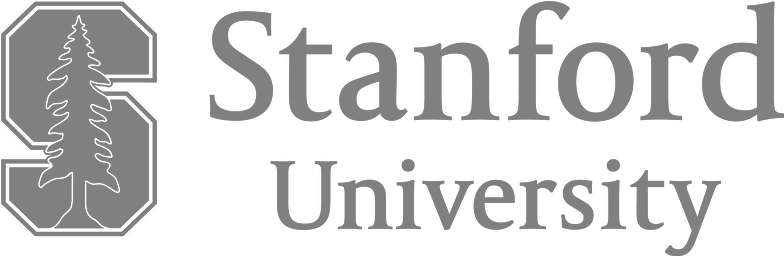
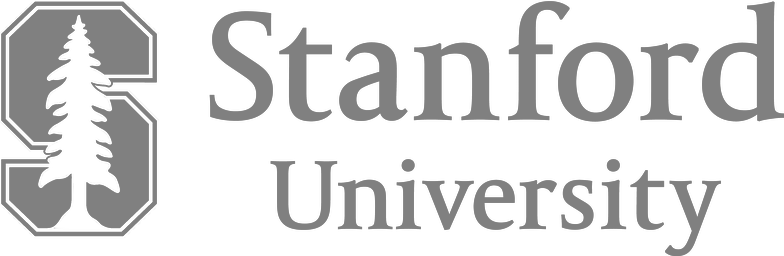
API/MCP page slimmed to connect + ask; header CTA gets the key; Stanford tree
- api-key.html is two sections now: the agent-chips connect terminal and the
  ask-an-AI cards. The hero block and the preview console leave; the connect
  heading becomes the page h1 (with the specificity fix so it keeps its
  display size), and the sections sit on the standard section rhythm.
- The home page header CTA reads "Get your API key" and links to the
  API / MCP page, in both header states; as a nav anchor it keeps the
  control look. The hero and closing "Book a call" stay.
- The Stanford tree reads white in both modes: the tree is an enclosed
  transparent hole in the source, so the dark mark now fills it with real
  white; both strip images regenerated from the updated source.

Changed region(s): [[0.0306, 0.0938, 0.1531, 0.9062]]

diff --git a/api-key.html b/api-key.html
@@ -47,19 +47,12 @@
     <button type="button" class="nav-toggle" aria-expanded="false" aria-label="Menu" data-i18n-attr="aria-label:ariaMenu"><svg width="20" height="20" viewBox="0 0 24 24" fill="none" stroke="currentColor" stroke-width="2" stroke-linecap="round" stroke-linejoin="round"><path d="M4 6h16"/><path d="M4 12h16"/><path d="M4 18h16"/></svg></button>
   </header>
   <main class="page-main">
-    <h1>Run 1,000+ deterministic engines from one endpoint</h1>
-    <p class="api-lede">The API and the MCP server are two doors to the same place. Your code calls a REST endpoint, your AI calls a tool, and both run the same engine and get the same exact answer back. Same key for both.</p>
-    <div class="api-hero-meta">
-      <p class="api-note">The API opens soon. The console below is a preview until then.</p>
-      <div class="api-base"><span class="api-base-label">Base URL</span><code>https://api.anteon.dev</code></div>
-    </div>
-
     <!-- A. Connect: a motion-style showcase. The chips switch the terminal,
          which types out that agent's setup line by line. Every line is depicted
          and pre-launch: the real MCP URL and a Bearer key, framed as how it
          works. The window is a component surface, like the landing terminal. -->
     <section class="api-connect" aria-labelledby="api-connect-h">
-      <h2 id="api-connect-h" class="api-display-h">Plug Anteon into your existing agents</h2>
+      <h1 id="api-connect-h" class="api-display-h">Plug Anteon into your existing agents</h1>
       <p class="api-display-sub">Call Anteon from Claude, ChatGPT, Cursor, or any agent over MCP. It finds the right engine and returns the exact answer.</p>
 
       <div class="api-chips" role="group" aria-label="Choose an agent">
@@ -115,71 +108,7 @@
       <p class="api-status" id="api-connect-status" role="status" aria-live="polite" hidden></p>
     </section>
 
-    <!-- 3-5. The console: account, key, billing. Staged, pre-launch, honest. -->
-    <section class="api-section" aria-labelledby="api-console-h">
-      <div class="api-section-head">
-        <h2 id="api-console-h">Your console</h2>
-        <span class="api-soon">Preview</span>
-      </div>
-      <p class="api-section-lede">Here&rsquo;s where you&rsquo;ll manage your account, your key, and your balance. It&rsquo;s a preview until the API opens, so nothing here is stored yet.</p>
-      <div class="api-console">
-
-        <!-- Account -->
-        <article class="api-panel">
-          <div class="api-panel-head">
-            <h3>Create your account</h3>
-            <span class="api-soon">Launching soon</span>
-          </div>
-          <p class="api-panel-desc">One account holds your keys, your balance, and your usage. Sign-ups open the day the API does.</p>
-          <form class="api-account-form" novalidate>
-            <div class="api-field">
-              <label for="api-email">Work email</label>
-              <input id="api-email" name="email" type="email" autocomplete="email" placeholder="you@company.com" />
-            </div>
-            <button type="submit" class="api-btn">
-              <span class="api-btn-label">Create account</span>
-              <span class="api-btn-arrow" aria-hidden="true"><svg viewBox="0 0 24 24" fill="none" stroke="currentColor" stroke-width="2" stroke-linecap="round" stroke-linejoin="round"><path d="M7 7h10v10"/><path d="M7 17 17 7"/></svg></span>
-            </button>
-          </form>
-          <p class="api-status" id="api-account-status" role="status" aria-live="polite" hidden></p>
-        </article>
-
-        <!-- Your API key -->
-        <article class="api-panel">
-          <div class="api-panel-head"><h3>Your API key</h3></div>
-          <p class="api-panel-desc">Your key authenticates every call, plain API or MCP. You&rsquo;ll see it once, when you create it.</p>
-          <div class="api-key-row">
-            <code class="api-key">ak_live_a1b2c3d4&bull;&bull;&bull;&bull;&bull;&bull;&bull;&bull;&bull;&bull;&bull;&bull;&bull;&bull;&bull;&bull;&bull;&bull;&bull;&bull;</code>
-            <button class="api-copy is-preview" type="button" data-note-target="#api-key-status" data-note="This is a sample. Your real key appears here at launch, shown once." aria-label="Copy your API key">
-              <svg class="api-copy-icon" viewBox="0 0 24 24" fill="none" stroke="currentColor" stroke-width="2" stroke-linecap="round" stroke-linejoin="round" aria-hidden="true"><rect width="14" height="14" x="8" y="8" rx="2" ry="2"/><path d="M4 16c-1.1 0-2-.9-2-2V4c0-1.1.9-2 2-2h10c1.1 0 2 .9 2 2"/></svg>
-              <span class="api-copy-label">Copy</span>
-            </button>
-          </div>
-          <p class="api-key-hint">This is a sample. Your real key appears here at launch, shown once. Keep it secret, like a password.</p>
-          <p class="api-status" id="api-key-status" role="status" aria-live="polite" hidden></p>
-        </article>
-
-        <!-- Billing -->
-        <article class="api-panel">
-          <div class="api-panel-head">
-            <h3>Billing</h3>
-            <span class="api-soon">Launching soon</span>
-          </div>
-          <p class="api-panel-desc">Anteon meters by the run. You load a balance, and each call draws a small amount from it, less for a quick lookup, more for a heavy conversion. The plain API and the MCP server bill the same way.</p>
-          <div class="api-balance">
-            <span class="api-balance-label">Balance</span>
-            <span class="api-balance-amount">$0.00</span>
-          </div>
-          <button class="api-btn" type="button" data-note-target="#api-billing-status" data-note="Checkout opens at launch and runs on Stripe. No card details are collected on this page.">
-            <span class="api-btn-label">Add funds</span>
-            <span class="api-btn-arrow" aria-hidden="true"><svg viewBox="0 0 24 24" fill="none" stroke="currentColor" stroke-width="2" stroke-linecap="round" stroke-linejoin="round"><path d="M7 7h10v10"/><path d="M7 17 17 7"/></svg></span>
-          </button>
-          <p class="api-billing-foot">Full rates land on the <a href="./pricing.html">pricing page</a> before the API opens.</p>
-          <p class="api-status" id="api-billing-status" role="status" aria-live="polite" hidden></p>
-        </article>
-
-      </div>
-    </section>
+    
 
     <!-- B. Ask an AI: three outbound links that open a chat assistant with the
          question already typed in. No backend and no tracking, just links. -->
@@ -287,6 +216,221 @@
             if (email) email.setAttribute('aria-invalid', 'false');
             showNote('#api-account-status', "The API isn't open yet, so no account is created and nothing is stored. Sign-ups turn on here the day it launches.");
           });
+        }
+
+        // ===== Connect terminal: chips switch the agent, and each agent's
+        // setup types out line by line behind a blinking caret. A run token
+        // guards a half-typed script when the visitor clicks the chips quickly.
+        var termLines = document.getElementById('api-term-lines');
+        var termTitle = document.querySelector('[data-term-title]');
+        var chips = document.querySelectorAll('.api-chip');
+        if (termLines && chips.length) {
+          var reduce = window.matchMedia('(prefers-reduced-motion: reduce)').matches;
+          var CHAR_MS = 6;
+          var LINE_MS = 55;
+          var runToken = 0;
+          var current = 'claude';
+
+          // Each agent: the window title, the single-line payload the copy
+          // control hands over, and the lines the typer prints. The displayed
+          // curl and config wrap for reading; the copy payload stays one line
+          // so it pastes clean.
+          var SCRIPTS = {
+            claude: {
+              title: 'anteon · claude',
+              copy: 'https://api.anteon.dev/mcp',
+              lines: [
+                { cls: 'api-tl-comment', g: '#', t: 'Add Anteon to Claude' },
+                { cls: 'api-tl-step', g: '1', t: 'Open claude.ai, then Settings, then Connectors' },
+                { cls: 'api-tl-step', g: '2', t: 'Choose "Add custom connector"' },
+                { cls: 'api-tl-step', g: '3', t: 'Name it Anteon and paste the server URL' },
+                { cls: 'api-tl-code', g: '', t: 'https://api.anteon.dev/mcp' },
+                { cls: 'api-tl-step', g: '4', t: 'Add your key when asked' },
+                { cls: 'api-tl-code', g: '', t: 'ak_live_...' },
+                { cls: 'api-tl-done', g: '✓', t: 'Connected. Claude can run every Anteon engine.' }
+              ]
+            },
+            cursor: {
+              title: 'anteon · cursor',
+              copy: '{ "mcpServers": { "anteon": { "url": "https://api.anteon.dev/mcp", "headers": { "Authorization": "Bearer ak_live_..." } } } }',
+              lines: [
+                { cls: 'api-tl-comment', g: '#', t: 'Add Anteon to Cursor' },
+                { cls: 'api-tl-step', g: '1', t: 'Open Cursor, then Settings, then MCP' },
+                { cls: 'api-tl-step', g: '2', t: 'Choose "Add server" and paste this' },
+                { cls: 'api-tl-code', g: '', t: '{' },
+                { cls: 'api-tl-code', g: '', t: '  "mcpServers": {' },
+                { cls: 'api-tl-code', g: '', t: '    "anteon": {' },
+                { cls: 'api-tl-code', g: '', t: '      "url": "https://api.anteon.dev/mcp",' },
+                { cls: 'api-tl-code', g: '', t: '      "headers": { "Authorization": "Bearer ak_live_..." }' },
+                { cls: 'api-tl-code', g: '', t: '    }' },
+                { cls: 'api-tl-code', g: '', t: '  }' },
+                { cls: 'api-tl-code', g: '', t: '}' },
+                { cls: 'api-tl-done', g: '✓', t: 'Save. Cursor lists Anteon tools right away.' }
+              ]
+            },
+            chatgpt: {
+              title: 'anteon · chatgpt',
+              copy: 'https://api.anteon.dev/mcp',
+              lines: [
+                { cls: 'api-tl-comment', g: '#', t: 'Add Anteon to ChatGPT' },
+                { cls: 'api-tl-step', g: '1', t: 'Open ChatGPT, then Settings, then Connectors' },
+                { cls: 'api-tl-step', g: '2', t: 'Add a custom connector' },
+                { cls: 'api-tl-step', g: '3', t: 'Paste the Anteon server URL' },
+                { cls: 'api-tl-code', g: '', t: 'https://api.anteon.dev/mcp' },
+                { cls: 'api-tl-step', g: '4', t: 'Add your key when asked' },
+                { cls: 'api-tl-code', g: '', t: 'ak_live_...' },
+                { cls: 'api-tl-done', g: '✓', t: 'Connected. ChatGPT reaches every Anteon engine.' }
+              ]
+            },
+            perplexity: {
+              title: 'anteon · perplexity',
+              copy: 'https://api.anteon.dev/mcp',
+              lines: [
+                { cls: 'api-tl-comment', g: '#', t: 'Add Anteon to Perplexity' },
+                { cls: 'api-tl-step', g: '1', t: 'Open Perplexity, then Settings, then Connectors' },
+                { cls: 'api-tl-step', g: '2', t: 'Add a custom MCP connector' },
+                { cls: 'api-tl-step', g: '3', t: 'Paste the Anteon server URL' },
+                { cls: 'api-tl-code', g: '', t: 'https://api.anteon.dev/mcp' },
+                { cls: 'api-tl-step', g: '4', t: 'Add your key when asked' },
+                { cls: 'api-tl-code', g: '', t: 'ak_live_...' },
+                { cls: 'api-tl-done', g: '✓', t: 'Connected. Perplexity runs Anteon on demand.' }
+              ]
+            },
+            any: {
+              title: 'anteon · any client',
+              copy: 'https://api.anteon.dev/mcp',
+              lines: [
+                { cls: 'api-tl-comment', g: '#', t: 'Any MCP client' },
+                { cls: 'api-tl-note', g: '', t: 'Point your client at the Anteon MCP server.' },
+                { cls: 'api-tl-code', g: '', t: 'url      https://api.anteon.dev/mcp' },
+                { cls: 'api-tl-code', g: '', t: 'header   Authorization: Bearer ak_live_...' },
+                { cls: 'api-tl-note', g: '', t: 'It exposes three tools, search, run, and describe.' },
+                { cls: 'api-tl-done', g: '✓', t: 'Any MCP-capable agent can now call Anteon.' }
+              ]
+            },
+            api: {
+              title: 'anteon · api',
+              copy: "curl -X POST https://api.anteon.dev/v1/run/date.business_days -H \"Authorization: Bearer ak_live_...\" -d '{\"start\":\"2026-03-03\",\"n\":90}'",
+              lines: [
+                { cls: 'api-tl-comment', g: '#', t: 'Call an engine directly over HTTP' },
+                { cls: 'api-tl-code', g: '$', t: 'curl -X POST https://api.anteon.dev/v1/run/date.business_days \\' },
+                { cls: 'api-tl-code', g: '', t: '  -H "Authorization: Bearer ak_live_..." \\' },
+                { cls: 'api-tl-code', g: '', t: "  -d '{\"start\":\"2026-03-03\",\"n\":90}'" },
+                { cls: 'api-tl-note', g: '', t: 'Response' },
+                { cls: 'api-tl-code', g: '', t: '{ "result": "2026-07-08", "engine": "date.business_days" }' },
+                { cls: 'api-tl-done', g: '✓', t: 'One call, one exact answer.' }
+              ]
+            }
+          };
+
+          function makeTermLine(line) {
+            var el = document.createElement('div');
+            el.className = 'api-term-line ' + line.cls;
+            var g = document.createElement('span');
+            g.className = 'api-term-glyph';
+            g.textContent = line.g || '';
+            el.appendChild(g);
+            var t = document.createElement('span');
+            t.className = 'api-term-text';
+            el.appendChild(t);
+            return { el: el, textEl: t };
+          }
+
+          function renderInstant(key) {
+            var script = SCRIPTS[key];
+            termLines.replaceChildren();
+            for (var i = 0; i < script.lines.length; i += 1) {
+              var made = makeTermLine(script.lines[i]);
+              made.textEl.textContent = script.lines[i].t;
+              termLines.appendChild(made.el);
+            }
+          }
+
+          function play(key) {
+            var script = SCRIPTS[key];
+            if (!script) return;
+            current = key;
+            if (termTitle) termTitle.textContent = script.title;
+            runToken += 1;
+            var token = runToken;
+            termLines.replaceChildren();
+            if (reduce) { renderInstant(key); return; }
+            var cursor = document.createElement('span');
+            cursor.className = 'api-term-cursor';
+            var li = 0;
+            function nextLine() {
+              if (token !== runToken) return;
+              if (li >= script.lines.length) return;
+              var line = script.lines[li];
+              var made = makeTermLine(line);
+              termLines.appendChild(made.el);
+              made.el.appendChild(cursor);
+              var text = line.t;
+              var ci = 0;
+              (function typeChar() {
+                if (token !== runToken) return;
+                if (ci <= text.length) {
+                  made.textEl.textContent = text.slice(0, ci);
+                  ci += 1;
+                  termLines.scrollTop = termLines.scrollHeight;
+                  window.setTimeout(typeChar, CHAR_MS);
+                } else {
+                  li += 1;
+                  window.setTimeout(nextLine, LINE_MS);
+                }
+              })();
+            }
+            nextLine();
+          }
+
+          for (const chip of chips) {
+            chip.addEventListener('click', function () {
+              var key = chip.getAttribute('data-agent');
+              if (!key) return;
+              for (const c of chips) {
+                var on = c === chip;
+                c.classList.toggle('is-active', on);
+                c.setAttribute('aria-pressed', on ? 'true' : 'false');
+              }
+              play(key);
+            });
+          }
+
+          // The terminal copy control hands over the active agent's payload (the
+          // MCP URL, the Cursor config, or the curl), not the on-screen decoration.
+          var termCopy = document.getElementById('api-term-copy');
+          if (termCopy) {
+            termCopy.addEventListener('click', function () {
+              var label = termCopy.querySelector('.api-copy-label');
+              copyText(SCRIPTS[current].copy).then(function () {
+                termCopy.classList.add('is-copied');
+                if (label) label.textContent = 'Copied';
+                window.clearTimeout(termCopy._reset);
+                termCopy._reset = window.setTimeout(function () {
+                  termCopy.classList.remove('is-copied');
+                  if (label) label.textContent = 'Copy';
+                }, 1600);
+              }, function () {});
+            });
+          }
+
+          // Type the default agent once the terminal scrolls into view, so the
+          // reveal reads as a live session rather than a page already filled in.
+          if (reduce) {
+            renderInstant(current);
+          } else if ('IntersectionObserver' in window) {
+            var seen = false;
+            var io = new IntersectionObserver(function (entries) {
+              if (entries[0] && entries[0].isIntersecting && !seen) {
+                seen = true;
+                play(current);
+                io.disconnect();
+              }
+            }, { threshold: 0.35 });
+            io.observe(termLines);
+          } else {
+            play(current);
+          }
         }
 
         // ===== Connect terminal: chips switch the agent, and each agent's

diff --git a/index.html b/index.html
@@ -58,7 +58,7 @@
       <a href="./api-key.html" data-i18n="apiKey">API / MCP</a>
       <a href="./pricing.html" data-i18n="pricing">Pricing</a>
       <a href="./support.html" data-i18n="support">Support</a>
-      <button type="button" class="book-call"><span class="bc-label" data-i18n="bookCall">Book a call</span><span class="bc-arrow" aria-hidden="true"><svg width="15" height="15" viewBox="0 0 24 24" fill="none" stroke="currentColor" stroke-width="2" stroke-linecap="round" stroke-linejoin="round"><path d="M7 7h10v10"/><path d="M7 17 17 7"/></svg></span></button>
+      <a class="book-call" href="./api-key.html"><span class="bc-label" data-i18n="getApiKey">Get your API key</span><span class="bc-arrow" aria-hidden="true"><svg width="15" height="15" viewBox="0 0 24 24" fill="none" stroke="currentColor" stroke-width="2" stroke-linecap="round" stroke-linejoin="round"><path d="M7 7h10v10"/><path d="M7 17 17 7"/></svg></span></a>
     </nav>
     <button type="button" class="nav-toggle" aria-expanded="false" aria-label="Menu" data-i18n-attr="aria-label:ariaMenu"><svg width="20" height="20" viewBox="0 0 24 24" fill="none" stroke="currentColor" stroke-width="2" stroke-linecap="round" stroke-linejoin="round"><path d="M4 6h16"/><path d="M4 12h16"/><path d="M4 18h16"/></svg></button>
   </header>
@@ -96,7 +96,7 @@
         <a href="./api-key.html" data-i18n="apiKey">API / MCP</a>
         <a href="./pricing.html" data-i18n="pricing">Pricing</a>
         <a href="./support.html" data-i18n="support">Support</a>
-        <button type="button" class="book-call"><span class="bc-label" data-i18n="bookCall">Book a call</span><span class="bc-arrow" aria-hidden="true"><svg width="15" height="15" viewBox="0 0 24 24" fill="none" stroke="currentColor" stroke-width="2" stroke-linecap="round" stroke-linejoin="round"><path d="M7 7h10v10"/><path d="M7 17 17 7"/></svg></span></button>
+        <a class="book-call" href="./api-key.html"><span class="bc-label" data-i18n="getApiKey">Get your API key</span><span class="bc-arrow" aria-hidden="true"><svg width="15" height="15" viewBox="0 0 24 24" fill="none" stroke="currentColor" stroke-width="2" stroke-linecap="round" stroke-linejoin="round"><path d="M7 7h10v10"/><path d="M7 17 17 7"/></svg></span></a>
       </nav>
       <button type="button" class="nav-toggle" aria-expanded="false" aria-label="Menu" data-i18n-attr="aria-label:ariaMenu"><svg width="20" height="20" viewBox="0 0 24 24" fill="none" stroke="currentColor" stroke-width="2" stroke-linecap="round" stroke-linejoin="round"><path d="M4 6h16"/><path d="M4 12h16"/><path d="M4 18h16"/></svg></button>
     </div>

diff --git a/src/i18n/catalogs.ts b/src/i18n/catalogs.ts
@@ -29,6 +29,7 @@ export interface Catalog {
   pricing: string;
   support: string;
   bookCall: string;
+  getApiKey: string;
   /* The film's skip control. */
   skipFilm: string;
   introTitle: string;
@@ -262,6 +263,7 @@ const CHROME: Record<Locale, ChromeStrings> = {
     pricing: 'Pricing',
     support: 'Support',
     bookCall: 'Book a call',
+    getApiKey: 'Get your API key',
     skipFilm: 'Skip the film',
     introTitle: 'Anteon',
     introSub: 'The determinism layer your AI stands on',
@@ -450,6 +452,7 @@ const CHROME: Record<Locale, ChromeStrings> = {
     pricing: 'Precios',
     support: 'Soporte',
     bookCall: 'Reserva una llamada',
+    getApiKey: 'Obtén tu clave de API',
     skipFilm: 'Salta la película',
     introTitle: 'Anteon',
     introSub: 'La capa de determinismo sobre la que se apoya tu IA',

diff --git a/src/styles.css b/src/styles.css
@@ -114,6 +114,12 @@ body {
   transition: opacity var(--speed-quick) var(--ease);
 }
 
+/* The header CTA is a link now (it goes to the API / MCP page). As an anchor
+ * inside the nav it keeps the control look: no muting, no drawn underline. */
+a.book-call { text-decoration: none; }
+.header-nav a.book-call { opacity: 1; }
+.header-nav a.book-call::after { content: none; }
+
 .book-call:hover { opacity: 1; }
 
 .book-call .bc-arrow {

diff --git a/src/page.css b/src/page.css
@@ -1610,7 +1610,8 @@ body {
  * terminal a component surface like the landing one. */
 
 /* Shared display heading and its subheading, centered, Hanken not serif. */
-.api-display-h {
+.api-display-h,
+.page-main h1.api-display-h {
   max-width: var(--width-narrow);
   margin: 0 auto var(--space-4);
   font-family: var(--sans);
